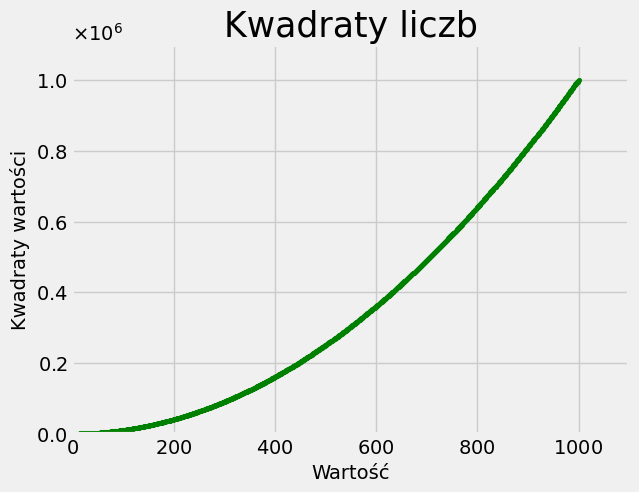
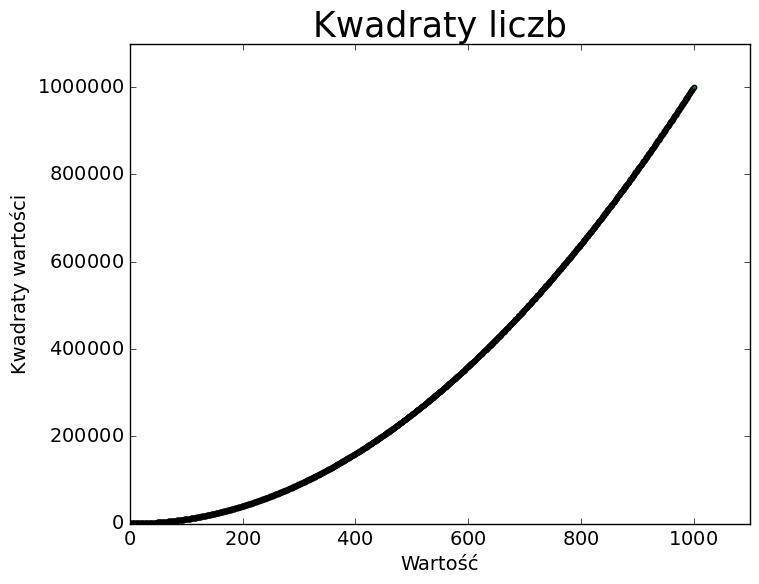
"Python Crash Course" - Project 2

diff --git a/python_crash_course/project2/random_walk.py b/python_crash_course/project2/random_walk.py
@@ -1,0 +1,38 @@
+from random import choice
+
+class RandomWalk():
+    """Klasa przeznaczona do generowania błądzenia losowego."""
+
+    def __init__(self, num_points=5000):
+        """Inicjalizacja atrybutów błądzenia."""
+        self.num_points = num_points
+
+        # Punkt początkowy ma współrzędne (0, 0).
+        self.x_values = [0]
+        self.y_values = [0]
+
+    def fill_walk(self):
+        """Wygenerowanie wszystkich punktów dla błądzenia losowego."""
+
+        # Wykonywanie kroków aż do chwili osiągnięcia oczekiwanej liczby punktów.
+        while len(self.x_values) < self.num_points:
+
+            # Ustalenie kierunku oraz odległości do pokonania w tym kierunku.
+            x_direction = choice([1, -1])
+            x_distance = choice([0, 1, 2, 3, 4])
+            x_step = x_direction * x_distance
+
+            y_direction = choice([1, -1])
+            y_distance = choice([0, 1, 2, 3, 4])
+            y_step = y_direction * y_distance
+
+            # Odrzucenie ruchów które prowadzą donikąd.
+            if x_step == 0 or y_step == 0:
+                continue
+
+            # Ustalenie następnych wartości X i Y
+            x = self.x_values[-1] + x_step
+            y = self.y_values[-1] + y_step
+
+            self.x_values.append(x)
+            self.y_values.append(y)

diff --git a/python_crash_course/project2/rw.visual.py b/python_crash_course/project2/rw.visual.py
@@ -1,0 +1,29 @@
+import matplotlib.pyplot as plt
+
+from random_walk import RandomWalk
+
+# Tworzenie nowego błądzenia losowego, dopóki program pozostanie aktywny.
+while True:
+    # Przygotowanie danych błądzenia losowego i wyświetlenie punktów.
+    rw = RandomWalk(50_000)
+    rw.fill_walk()
+
+    # Wyświetlenie punktów błądzenie losowego.
+    plt.style.use("classic")
+    fig, ax = plt.subplots(figsize=(16, 9), dpi=128)
+    point_numbers = range(rw.num_points)
+    ax.scatter(rw.x_values, rw.y_values, c=point_numbers, cmap=plt.cm.Blues, edgecolor="none", s=1)
+
+    # Podkreślenie pierwszego i ostatniego punktu błądzenia losowego.
+    ax.scatter(0, 0, c="green", edgecolor="none", s=25)
+    ax.scatter(rw.x_values[-1], rw.y_values[-1], c="red", edgecolor="none", s=25)
+
+    # Ukrycie osi.
+    ax.get_xaxis().set_visible(False)
+    ax.get_yaxis().set_visible(False)
+
+    plt.show()
+    
+    keep_running = input("Utworzyć kolejne błądzenie losowe? (t/n): ")
+    if keep_running == "n":
+        break

diff --git a/python_crash_course/project2/scatter_squares.py b/python_crash_course/project2/scatter_squares.py
@@ -5,9 +5,9 @@ FILE_PATH = "python_crash_course/project2/squares_plot.png"
 x_values = range(1, 1001)
 y_values = [x**2 for x in x_values]
 
-plt.style.use("fivethirtyeight")
+plt.style.use("classic")
 fig, ax = plt.subplots()
-ax.scatter(x_values, y_values, c="Green", s=10)
+ax.scatter(x_values, y_values, c="green", s=10)
 
 # Zdefiniowanie tytułu wykresu i etykiet osi
 ax.set_title("Kwadraty liczb", fontsize=25)

diff --git a/python_crash_course/project2/cubes_chart.py b/python_crash_course/project2/cubes_chart.py
@@ -5,7 +5,7 @@ FILE_PATH = "python_crash_course/project2/cubes_plot.png"
 x_values = range(1, 5001)
 y_values = [x ** 3 for x in x_values]
 
-plt.style.use("seaborn")
+plt.style.use("classic")
 fig, ax = plt.subplots()
 ax.plot(x_values, y_values, c="Green", linewidth=1)
 

diff --git a/python_crash_course/project2/mpl_squares.py b/python_crash_course/project2/mpl_squares.py
@@ -3,7 +3,7 @@ import matplotlib.pyplot as plt
 input_values = [1, 2, 3, 4, 5]
 squares = [1, 4, 9, 16, 25]
 
-plt.style.use("fivethirtyeight")
+plt.style.use("classic")
 fig, ax = plt.subplots()
 ax.plot(input_values, squares, linewidth=3)
 
